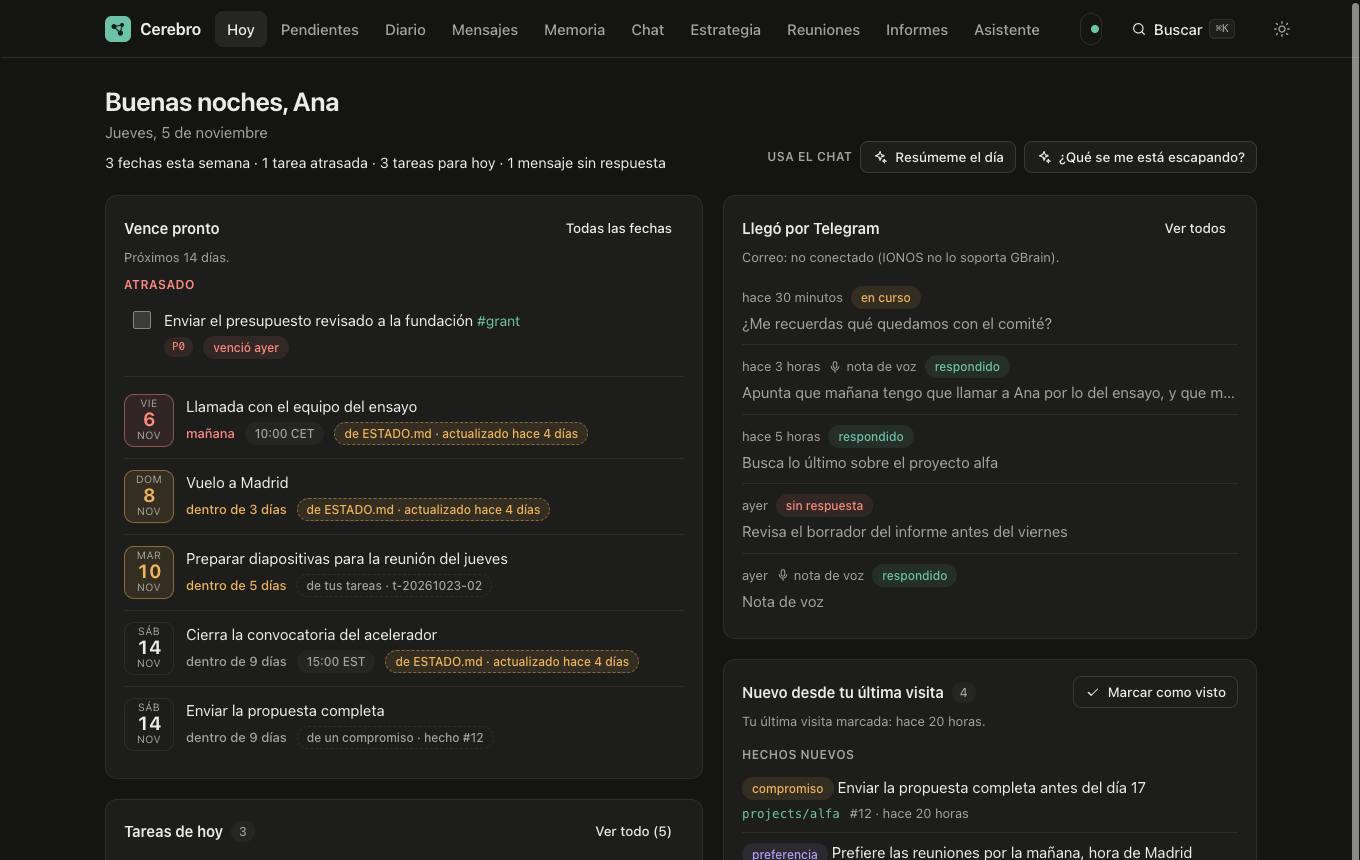
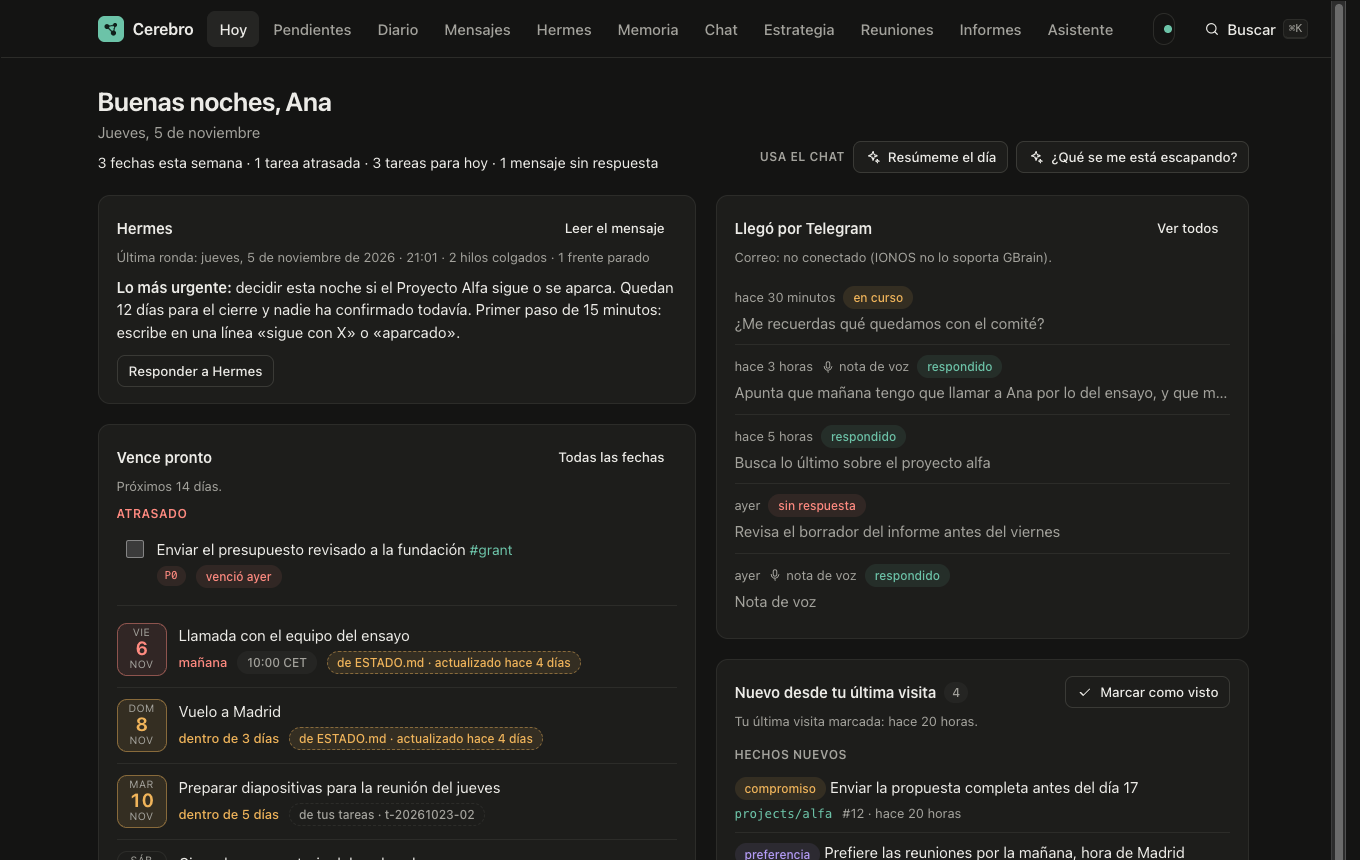
Hermes: tarjeta en Hoy con refresco inmediato y circuito de respuesta (panel y Telegram)

diff --git a/panel/lib/hermes.ts b/panel/lib/hermes.ts
@@ -5,7 +5,7 @@
 // "## YYYY-MM-DD HH:MM" heading (rounds answered "SIN NOVEDAD" are not saved).
 // This module only reads those files, newest round first. Read-only.
 
-import { readdirSync, readFileSync } from "node:fs";
+import { readdirSync, readFileSync, statSync } from "node:fs";
 import { join } from "node:path";
 import { config } from "./config.ts";
 
@@ -15,12 +15,47 @@ const FILE_RE = /^empuje-(\d{4}-\d{2})\.md$/;
 const HEADING_RE = /^## (\d{4}-\d{2}-\d{2}) (\d{2}:\d{2})\s*$/;
 
 export interface HermesRound { id: string; date: string; time: string; markdown: string; urgent: string }
+export interface HermesSummary { id: string; date: string; time: string; urgent: string; hilos: number; parados: number }
+
+const clean = (t: string) => t.replace(/\[\[([^\]|]+)\|([^\]]+)\]\]/g, "$2").replace(/\[\[([^\]]+)\]\]/g, "$1").trim();
+
+/** The whole "Lo más urgente ahora" paragraph (up to the blank line), for the Hoy card. */
+export function urgentFullOf(md: string): string {
+  const m = /Lo más urgente ahora:\s*([^\n]+(?:\n(?!\s*\n)(?![⏳🧊✅])[^\n]+)*)/i.exec(md);
+  if (!m) return "";
+  const t = clean(m[1].replace(/\n/g, " "));
+  return t.length > 420 ? t.slice(0, 417).trimEnd() + "…" : t;
+}
+
+/** Number of lines under a section marker ("⏳ Hilos colgados:") up to the next blank line. */
+export function countSection(md: string, marker: string): number {
+  const lines = md.split("\n");
+  const i = lines.findIndex((l) => l.includes(marker));
+  if (i < 0) return 0;
+  let n = 0;
+  for (let j = i + 1; j < lines.length && lines[j].trim(); j++) n++;
+  return n;
+}
+
+export function summarize(r: HermesRound): HermesSummary {
+  return { id: r.id, date: r.date, time: r.time, urgent: urgentFullOf(r.markdown) || r.urgent,
+    hilos: countSection(r.markdown, "Hilos colgados"), parados: countSection(r.markdown, "Frentes parados") };
+}
+
+/** Newest modification time of the monthly pages: lets the browser poll notice a new round at once. */
+export function hermesMtimeMs(): number {
+  try {
+    let max = 0;
+    for (const f of readdirSync(DIR)) if (FILE_RE.test(f)) max = Math.max(max, statSync(join(DIR, f)).mtimeMs);
+    return max;
+  } catch { return 0; }
+}
 
 /** First line after "Lo más urgente ahora:", shown as the card summary. */
 export function urgentOf(md: string): string {
   const m = /Lo más urgente ahora:\s*([^\n]+)/i.exec(md);
   if (!m) return "";
-  const t = m[1].replace(/\[\[([^\]|]+)\|([^\]]+)\]\]/g, "$2").replace(/\[\[([^\]]+)\]\]/g, "$1").trim();
+  const t = clean(m[1]);
   return t.length > 160 ? t.slice(0, 157).trimEnd() + "…" : t;
 }
 

diff --git a/panel/public/views/hoy.js b/panel/public/views/hoy.js
@@ -1,11 +1,12 @@
 // Hoy: la pantalla de cada mañana.
-//   Izquierda: Vence pronto (+ Atrasado) · Tareas de hoy.
+//   Izquierda: Hermes (último empuje) · Vence pronto (+ Atrasado) · Tareas de hoy.
 //   Derecha:   Llegó por Telegram · Nuevo desde tu última visita · Apunta algo.
 
 import {
   h, get, post, card, emptyState, icon, rel, plural, slugLink, inlineText, askChat,
-  capture, refreshView, plainMd,
+  capture, refreshView, plainMd, fmtDay,
 } from '../app.js';
+import { openReplyHermes } from '../components/hermes-reply.js';
 import { typeChip, kindChip } from '../components/chips.js';
 import { formDialog } from '../components/confirm.js';
 import { toast } from '../components/toast.js';
@@ -57,7 +58,7 @@ function draw(el) {
         h('button.btn.small', { type: 'button', onclick: () => askChat('Resúmeme el día', { send: true }) }, icon('chat'), 'Resúmeme el día'),
         h('button.btn.small', { type: 'button', onclick: () => askChat('¿Qué se me está escapando?', { send: true }) }, icon('chat'), '¿Qué se me está escapando?'))),
     h('div.hoy-grid',
-      h('div.col', deadlinesCard(), tasksCard()),
+      h('div.col', hermesCard(), deadlinesCard(), tasksCard()),
       h('div.col', telegramCard(), sinceCard(), noteCard())));
 }
 
@@ -72,6 +73,21 @@ function summaryLine() {
   if (today) parts.push(plural(today, 'tarea para hoy', 'tareas para hoy'));
   if (waiting) parts.push(plural(waiting, 'mensaje sin respuesta', 'mensajes sin respuesta'));
   return h('p.summary', parts.length ? parts.join(' · ') : 'Nada urgente a la vista.');
+}
+
+/* -------------------------------------------------------------- hermes */
+
+function hermesCard() {
+  const hm = data.hermes;
+  if (!hm) return null;
+  const parts = [];
+  if (hm.hilos) parts.push(plural(hm.hilos, 'hilo colgado', 'hilos colgados'));
+  if (hm.parados) parts.push(plural(hm.parados, 'frente parado', 'frentes parados'));
+  return card({ title: 'Hermes', cls: 'hermes-card',
+    note: `Última ronda: ${fmtDay(hm.date, true)} · ${hm.time}${parts.length ? ' · ' + parts.join(' · ') : ''}`,
+    actions: h('a.btn.ghost.small', { href: '#/hermes' }, 'Leer el mensaje') },
+  hm.urgent && h('p.card-text', h('strong', 'Lo más urgente: '), hm.urgent),
+  h('div.card-actions-row', h('button.btn.small', { type: 'button', onclick: () => openReplyHermes(hm) }, 'Responder a Hermes')));
 }
 
 /* ---------------------------------------------------------- vence pronto */

diff --git a/panel/public/components/hermes-reply.js b/panel/public/components/hermes-reply.js
@@ -1,0 +1,35 @@
+// «Responder a Hermes»: guarda tu respuesta como un hecho del cerebro que empieza por
+// «Respuesta a Hermes (ronda AAAA-MM-DD HH:MM):». Hermes lo lee en su siguiente ronda
+// (recall de «Respuesta a Hermes») y deja de empujar lo que ya contestaste. Gratis: no usa el modelo.
+
+import { post, stamp, refreshView } from '../app.js';
+import { formDialog } from './confirm.js';
+import { toast } from './toast.js';
+
+export const PREFIX = 'Respuesta a Hermes';
+
+/** round: {id: 'AAAA-MM-DD HH:MM'} */
+export async function openReplyHermes(round) {
+  const saved = await formDialog({
+    title: 'Responder a Hermes',
+    intro: 'Dile qué has hecho, qué sueltas o qué aplazas. Lo leerá en su próxima ronda y no te empujará por lo ya contestado.',
+    submitLabel: 'Enviar respuesta',
+    fields: [{
+      name: 'texto', label: 'Tu respuesta', type: 'textarea', rows: 4, required: true, maxlength: 400, autofocus: true,
+      hint: 'Por ejemplo: «Elliot: ya le escribí, nueva llamada el jueves. César: lo suelto.»',
+    }],
+    onSubmit: async (v) => {
+      const body = {
+        fact: `${PREFIX} (ronda ${round.id}): ${v.texto}`,
+        kind: 'fact',
+        provenance: `panel web, ${stamp()}, respuesta a la ronda de Hermes ${round.id}`,
+      };
+      const r = await post('/api/facts', body);
+      if (r?.verified || r?.status === 'duplicate') toast('Respuesta guardada: Hermes la leerá en su próxima ronda');
+      else toast('Guardada, pero no pude comprobarla releyendo la base', { kind: 'warn' });
+      return r;
+    },
+  });
+  if (saved) refreshView({ quiet: true });
+  return saved;
+}

diff --git a/panel/test/hermes.test.ts b/panel/test/hermes.test.ts
@@ -51,3 +51,22 @@ describe("listRounds", () => {
     expect(listRounds()).toEqual({ rounds: [], total: 0, folder: false });
   });
 });
+
+describe("summary for the Hoy card", () => {
+  const md = "🔱 Hermes · 21:00\n\n👉 Lo más urgente ahora: decidir si sigue [[projects/alfa]].\nPrimer paso: escribe una línea.\n\n⏳ Hilos colgados:\nAna: desde el lunes\nJosé: desde el martes\n\n🧊 Frentes parados:\nBeta: 7 días\n\n✅ Bien: algo.";
+  test("whole urgent paragraph and section counts", async () => {
+    const { summarize, urgentFullOf, countSection } = await import("../lib/hermes.ts");
+    expect(urgentFullOf(md)).toBe("decidir si sigue projects/alfa. Primer paso: escribe una línea.");
+    expect(countSection(md, "Hilos colgados")).toBe(2);
+    expect(countSection(md, "Frentes parados")).toBe(1);
+    expect(countSection(md, "No existe")).toBe(0);
+    const s = summarize({ id: "2026-11-05 21:01", date: "2026-11-05", time: "21:01", markdown: md, urgent: "x" });
+    expect([s.hilos, s.parados]).toEqual([2, 1]);
+  });
+  test("mtime of the monthly pages moves when a round is appended", async () => {
+    const { hermesMtimeMs } = await import("../lib/hermes.ts");
+    expect(hermesMtimeMs()).toBe(0);
+    writeFileSync(join(dir, "empuje-2026-11.md"), MES);
+    expect(hermesMtimeMs()).toBeGreaterThan(0);
+  });
+});

diff --git a/panel/public/views/hermes.js b/panel/public/views/hermes.js
@@ -1,7 +1,8 @@
 // Hermes (#/hermes): los mensajes de empuje que Hermes te manda por Telegram, del más reciente
 // al más antiguo. Solo lectura: salen de las páginas ops/hermes/empuje-AAAA-MM del cerebro.
 
-import { h, get, card, raw, emptyState, pageHead, fmtDay, rel } from '../app.js';
+import { h, get, card, raw, emptyState, pageHead, fmtDay } from '../app.js';
+import { openReplyHermes } from '../components/hermes-reply.js';
 
 export const title = 'Hermes';
 
@@ -22,8 +23,9 @@ export async function mount(el) {
   const items = rounds.map((r, i) => {
     const when = `${fmtDay(r.date, true)} · ${r.time}`;
     const body = h('div.prose.hermes-body', raw(r.html));
-    if (i === 0) return card({ title: when, cls: 'hermes-round', note: 'La última ronda' }, body);
-    return card({ title: when, cls: 'hermes-round', note: r.urgent || undefined },
+    const reply = h('button.btn.small', { type: 'button', onclick: () => openReplyHermes(r) }, 'Responder');
+    if (i === 0) return card({ title: when, cls: 'hermes-round', note: 'La última ronda', actions: reply }, body);
+    return card({ title: when, cls: 'hermes-round', note: r.urgent || undefined, actions: reply },
       h('details', h('summary', 'Leer el mensaje'), body));
   });
   el.replaceChildren(head, ...items);

diff --git a/panel/lib/pulse.ts b/panel/lib/pulse.ts
@@ -1,13 +1,14 @@
 // lib/pulse.ts — change fingerprint for the 20 s browser poll (spec §6.1).
 //
 // fp = sha1(DB change row + newest Telegram transcript "size:mtime" + ESTADO.md
-// mtime). The browser refetches the current view only when fp changes.
+// mtime + newest Hermes page mtime). The browser refetches the current view only when fp changes.
 // The Telegram part comes from lib/telegram.ts (telegramFingerprint), passed in
 // by server.ts so this module stays independent of the transcript parser.
 
 import { createHash } from "node:crypto";
 import { pulseRow } from "./db.ts";
 import { estadoMtimeMs } from "./estado.ts";
+import { hermesMtimeMs } from "./hermes.ts";
 
 export async function computePulse(telegramFp: string): Promise<{ fp: string; ts: string }> {
   const row = await pulseRow();
@@ -15,6 +16,7 @@ export async function computePulse(telegramFp: string): Promise<{ fp: string; ts
     .update(JSON.stringify(row))
     .update("|" + telegramFp)
     .update("|" + estadoMtimeMs())
+    .update("|" + hermesMtimeMs())
     .digest("hex");
   return { fp, ts: new Date().toISOString() };
 }

diff --git a/panel/test/mock-server.ts b/panel/test/mock-server.ts
@@ -261,6 +261,7 @@ function get(path: string, q: URLSearchParams): Response | null {
       inbox: mode === "empty" ? [] : [{ slug: "inbox/2026-10-25-idea", title: "Idea para el piloto", created_at: iso(2 * H) }, { slug: "inbox/2026-10-24-recado", title: "Comprar **cartuchos**", created_at: iso(30 * H) }],
       tasksExists: mode !== "empty",
       estado: { ok: true, slug: "sources/informes-claude/estado", mtime: iso(4 * D), ageDays: 4, stale: true },
+      hermes: mode === "empty" ? null : { id: "2026-11-05 21:01", date: "2026-11-05", time: "21:01", hilos: 2, parados: 1, urgent: "decidir esta noche si el Proyecto Alfa sigue o se aparca. Quedan 12 días para el cierre y nadie ha confirmado todavía. Primer paso de 15 minutos: escribe en una línea «sigue con X» o «aparcado»." },
     });
     case "/api/asistente": return json({
       dominios: { ok: true, permitidos: ["localhost", "127.0.0.1", "financiador.example", "otro-financiador.example"], bloqueados: ["paypal", "gmail"] },

diff --git a/panel/server.ts b/panel/server.ts
@@ -27,7 +27,7 @@ import { getMensajes, getTelegramSummary, telegramFingerprint } from "./lib/tele
 import { chatStream, getChat, listChats, panelSpendToday, startChat, stopChat } from "./lib/chat.ts";
 import { CorreoError, saveDraft, sendEmail } from "./lib/correo.ts";
 import { AjustesError, billingStatus, setAjustes } from "./lib/ajustes.ts";
-import { listRounds } from "./lib/hermes.ts";
+import { listRounds, summarize } from "./lib/hermes.ts";
 import { appendEntry, DiarioError, listEntries, NO_PERMISSION_ES } from "./lib/diario.ts";
 import { buildEstrategiaView, ESTRATEGIA_SLUG } from "./lib/estrategia.ts";
 import * as asistente from "./lib/asistente.ts";
@@ -225,6 +225,7 @@ async function viewHoy() {
     since: { lastSeen, ...since },
     inbox: inboxRows,
     estado: estadoMeta(estado),
+    hermes: (() => { const r = listRounds(1).rounds[0]; return r ? summarize(r) : null; })(),
   };
 }
 

diff --git a/panel/public/app.css b/panel/public/app.css
@@ -1222,3 +1222,4 @@ dialog.palette:not([open]) { display: none; }
 .hermes-round { margin-bottom: 14px; }
 .hermes-body p { white-space: pre-line; }
 .hermes-round details > summary { cursor: pointer; color: var(--muted, inherit); margin: 4px 0 8px; }
+.hermes-card .card-actions-row { margin-top: 10px; }

diff --git a/README.md b/README.md
@@ -121,7 +121,9 @@ Cada mes puedes repetir el export; solo entra lo nuevo.
 - **Tarea diaria** (`ops/gbrain-daily.sh`): ingiere sesiones de Claude Code, hace commit del cerebro, `gbrain sync` y copia de seguridad. Prográmala con un `.plist` de launchd (p. ej. 03:30).
 - **Copia fuera del Mac**: añade un remoto `origin` privado a `brain/` y el script lo subirá. No lo hagas con el repo de la app para tus datos.
 - **Fuentes propias**: copia `ops/fuentes-plantilla.sh` a `ops/fuentes/<nombre>.sh`, cambia `ORIGEN` y `NOMBRE`, y ejecútalo con `--dry-run`, `--stage` y `--publish`. Excluye secretos, duplicados y archivos grandes.
-- **Hermes** (empuja en todos tus frentes): `ops/hermes-empuje.sh` lanza una ronda con el CLI `hermes` (hay que tenerlo instalado y configurado con los MCP `cerebro` y `correo`), la manda por Telegram y la guarda en `brain/ops/hermes/empuje-AAAA-MM.md`. La pestaña **Hermes** del panel lista esos mensajes, el último primero. Las rondas «sin novedad» no se guardan. Prográmala con un `.plist` de launchd (`com.<usuario>.hermes-empuje`).
+- **Hermes** (empuja en todos tus frentes): `ops/hermes-empuje.sh` lanza una ronda con el CLI `hermes` (hay que tenerlo instalado y configurado con los MCP `cerebro` y `correo`), la manda por Telegram y la guarda en `brain/ops/hermes/empuje-AAAA-MM.md`. Prográmala con un `.plist` de launchd (`com.<usuario>.hermes-empuje`; p. ej. entre semana a las 10:45, 16:00 y 21:00). Las rondas «sin novedad» no se guardan.
+  - **Verlo:** la pestaña **Hermes** lista los mensajes (el último primero) y **Hoy** muestra una tarjeta con lo más urgente de la última ronda; se actualiza sola cuando llega una nueva.
+  - **Responderle:** el botón «Responder a Hermes» (en Hoy y en su pestaña) o simplemente contestar por Telegram. En los dos casos se guarda un hecho que empieza por «Respuesta a Hermes (ronda …)». Hermes lo lee con `recall` al empezar su siguiente ronda y deja de empujar lo ya contestado. Para que el agente de Telegram lo haga, reinícialo tras `setup.sh` (lee `agente-telegram/CLAUDE.md` al arrancar).
 - **Telegram**: `zsh ops/set-telegram-token.sh` (pide el token con entrada oculta; nunca lo pegues en un chat) y `ops/telegram-agent.sh`.
 - **Correo**: `ops/correo.py` e `ionos-imap.py` vienen con servidores IMAP/SMTP de IONOS; cambia `IMAP_HOST`/`SMTP_HOST` por los de tu proveedor. La clave se lee del Llavero (servicio `ionos-imap`), nunca va en archivos.
 - **Clave de API** para el selector de facturación: Llavero, servicio `anthropic-api-key`, cuenta = tu usuario de macOS.
@@ -191,4 +193,4 @@ GBRAIN/
 cd ~/GBRAIN/panel && bun test
 ```
 
-189 pruebas, todas en verde tras ejecutar `setup.sh`. Usan datos inventados y una carpeta temporal: no leen tus ajustes reales.
+191 pruebas, todas en verde tras ejecutar `setup.sh`. Usan datos inventados y una carpeta temporal: no leen tus ajustes reales.

diff --git a/agente-telegram/CLAUDE.md b/agente-telegram/CLAUDE.md
@@ -128,6 +128,27 @@ Cómo reunir los datos: `entity`/`get_page` de cada `people/<slug>`, `search` po
 Si no hay nada de alguien, dilo en una línea («Sin datos previos de X») en vez de inventar.
 Las preguntas sugeridas se basan en lo abierto, no se inventan.
 
+## Hermes: sus empujes y las respuestas de __NOMBRE__
+
+Hermes es otro agente que manda a __NOMBRE__ mensajes que empiezan por «🔱 Hermes ·» (hilos colgados,
+frentes parados, lo más urgente). No los envías tú y no llegan a esta sesión: quedan en la página
+`ops/hermes/empuje-AAAA-MM` del cerebro, cada ronda bajo `## AAAA-MM-DD HH:MM`.
+
+Cuando __NOMBRE__ conteste a uno de esos empujes (menciona a Hermes, a una persona o frente de su lista,
+o dice «ya lo hice», «lo suelto», «lo aplazo», «ya le escribí»):
+1. `get_page` de la página del mes y lee la última ronda para saber a qué contesta. Si dudas de a qué
+   asunto se refiere, pregúntalo en una línea.
+2. Guarda cada respuesta con `remember`: un hecho por asunto, kind `fact` (si promete algo con fecha,
+   síguelo también como compromiso, sección anterior). El texto EMPIEZA por
+   «Respuesta a Hermes (ronda AAAA-MM-DD HH:MM): » y sigue con lo que dijo, con sus palabras y la fecha
+   (qué ha hecho, qué suelta, qué aplaza y hasta cuándo). entity de la persona o proyecto si la hay,
+   provenance «telegram, respuesta a Hermes, AAAA-MM-DD», visibility `world`. Así se entera Hermes: lee
+   esos hechos al empezar su siguiente ronda y deja de empujar lo ya contestado.
+3. Confírmaselo en una línea: «Anotado para Hermes: …».
+Lo que __NOMBRE__ dice manda sobre la nota de Hermes (que puede estar desactualizada): no le rebatas ni le
+repitas algo que ya contestó. Si quiere que le recuerden algo a una hora, eso son Recordatorios, no Hermes.
+(Las respuestas también pueden venir del panel, con el botón «Responder a Hermes»: son los mismos hechos.)
+
 ## Triaje de correo
 
 Solo lectura: `buscar_correo` y `leer_correo`. Nunca uses `enviar_correo` ni crees borradores.

diff --git a/agente-hermes/empuje.md b/agente-hermes/empuje.md
@@ -12,6 +12,7 @@ Mira en tu memoria (herramienta memory) la lista de frentes que llevas y lo que 
 - **Agenda** (`agenda`): reuniones de hoy y mañana que necesiten preparación.
 - **Cerebro**: `delta` o `get_recent_salience` para ver qué se ha movido; conversaciones recientes en `conversations/` (sección «Lo que dijo __NOMBRE__») para saber en qué estaba y qué dijo que haría.
 - **Hechos**: `recall` de compromisos (kind commitment) del frente.
+- **Respuestas de __NOMBRE__ a Hermes**: `recall` con `grep` «Respuesta a Hermes» (vienen de Telegram y del botón «Responder a Hermes» del panel; el texto dice a qué ronda contesta). Léelas ANTES de decidir a quién empujar: lo que __NOMBRE__ respondió manda sobre tu memoria y sobre las notas de agentes. Si dice que ya lo hizo, que lo suelta o que lo aplaza hasta una fecha, no lo empujes como colgado ni como parado hasta esa fecha: anótalo en tu memoria.
 
 ## 3. Decide a quién empujar
 Para cada frente, compara con tu estado: ¿ha avanzado? Un frente sin señales en 3 días laborables está **parado**. Uno con un plazo en menos de 14 días y poco avance está **en riesgo**. Una persona esperando respuesta más de 3 días es un **hilo colgado**.
